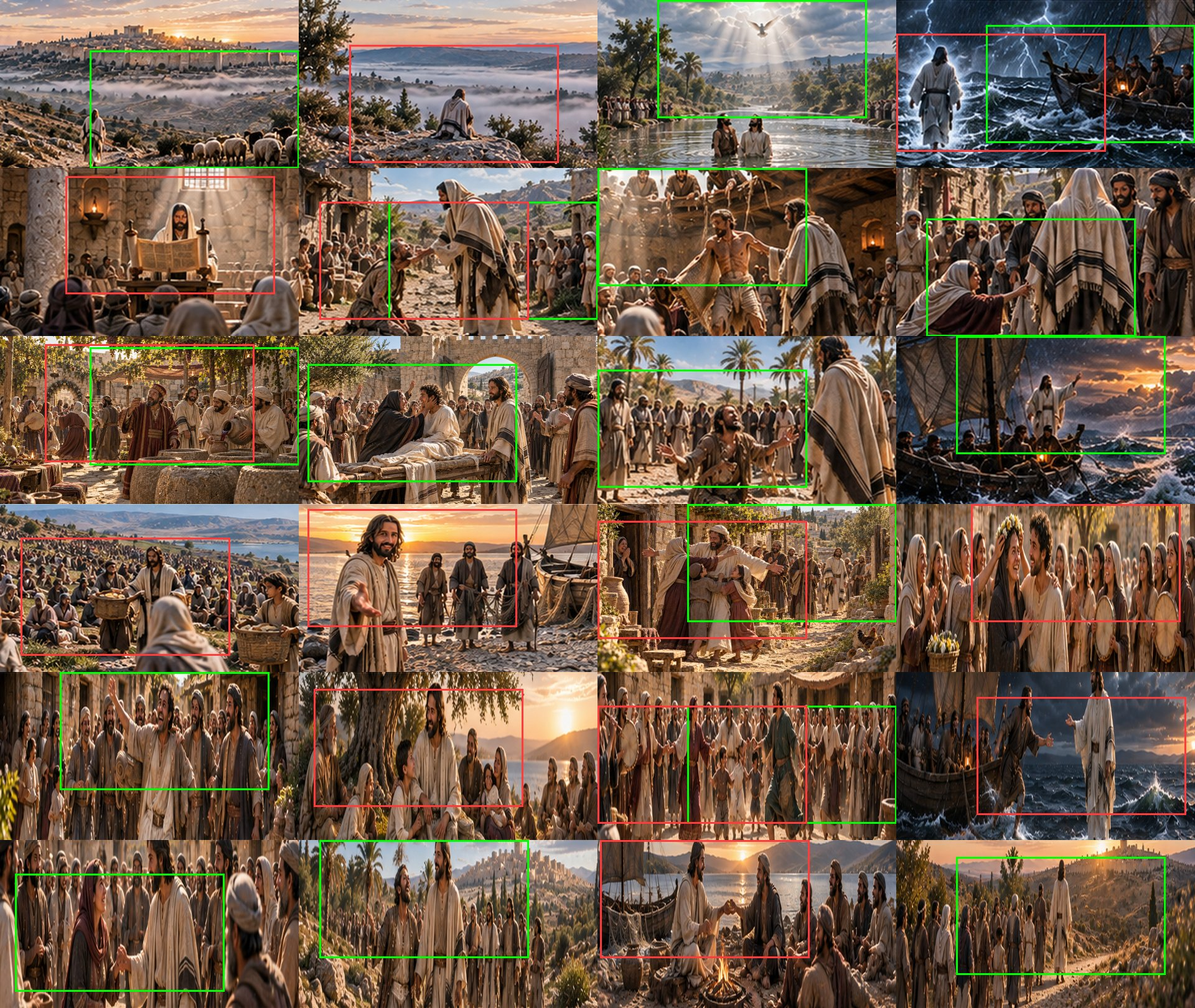
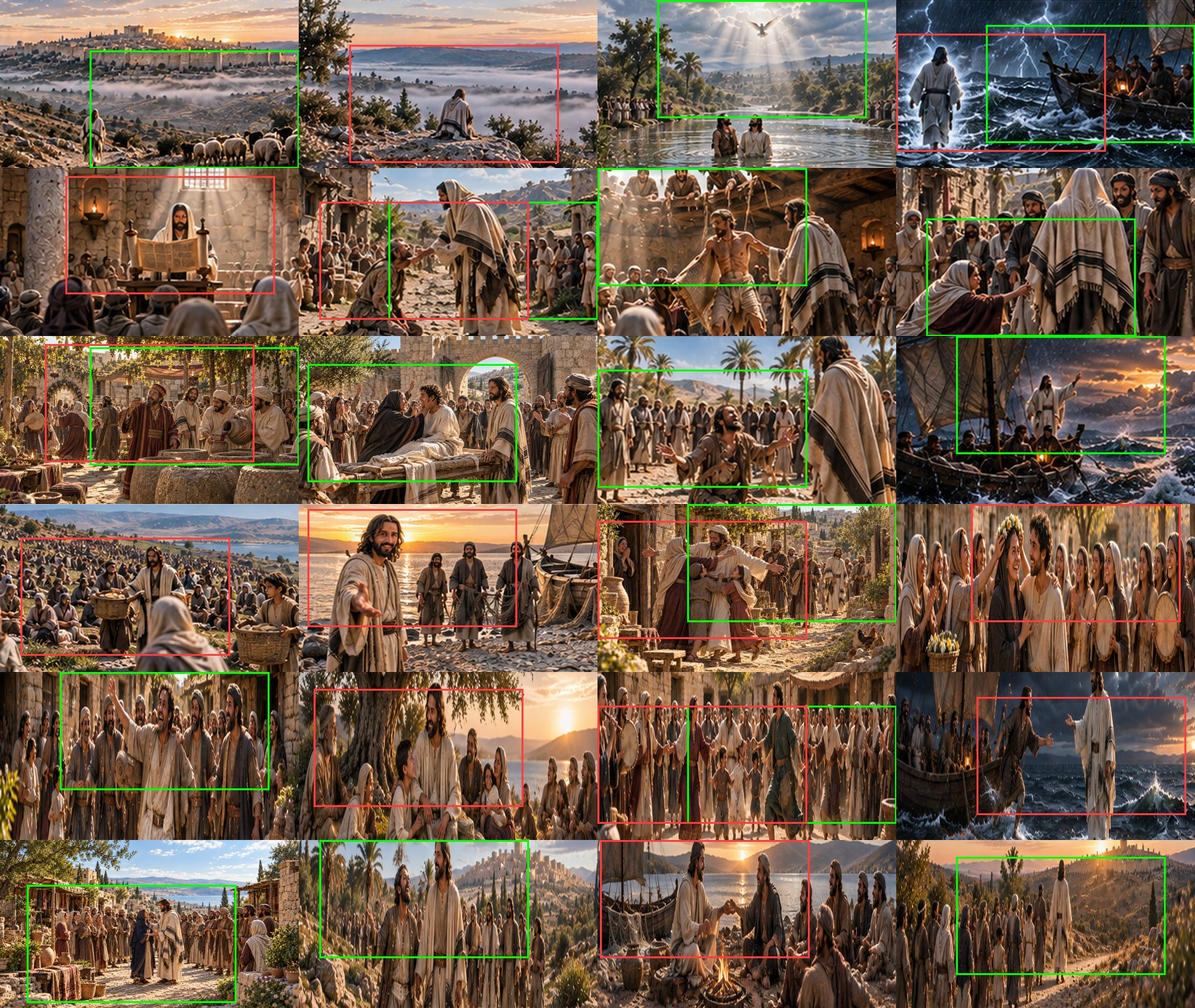
Jesus Savior Redeemer Friend: wider She Stands Tall (navy mantle), new scene 25 Hillside Teaching
Claude-Session: https://claude.ai/code/session_01BF3wGyJKPPbPDp5JMmzx9x

Changed region(s): [[0.0, 0.8333, 0.25, 1.0]]

diff --git a/jesus-savior-redeemer-friend/CAMERA-PLAN.md b/jesus-savior-redeemer-friend/CAMERA-PLAN.md
@@ -19,7 +19,8 @@ Frames: `stills/NN_*.jpg` is the full wide picture. `stills/keys/NN-start.jpg` /
 | 09 New Wine | Pouring gladness over me | Pan right to left from the servants pouring red wine from the stone jars to the steward's amazed smile, with Yeshua smiling behind | keys/09-start → keys/09-end |
 | 10 The Widow's Son | Beauty rises from the ashes / In Your love You set me free | Start close on the mother holding her son's face, pull back to reveal Yeshua at the bier and the rejoicing crowd at the gate | keys/10-start → 10 |
 | 14 Follow Me | Jesus Savior My Redeemer / Precious Guardian precious Friend | From the shore with the fishermen and boat, push in toward Yeshua's reaching hand and face | 14 → keys/14-end |
-| 11 Bartimaeus Sees | You declare this is the season / Of Your mercy of Your light | Start close on Bartimaeus lifting his arms, pull back past Yeshua's shoulder to the crowd | keys/11-start → 11 |
+| 25 Hillside Teaching | You declare this is the season / Of Your mercy of Your light | From the whole flowered hillside over the sea at sunset, push in to Yeshua speaking with open hands | 25 → keys/25-end |
+| 11 Bartimaeus Sees | Binding wounds You heal my pain (second chorus) | Start close on Bartimaeus lifting his arms, pull back past Yeshua's shoulder to the crowd | keys/11-start → 11 |
 | 04 Upon the Waters | By Your Spirit we are rising / In Your strength we soar along | Pan right to left from the frightened men in the boat to Yeshua walking on the waves | keys/04-start → keys/04-end |
 | 12 Peace Be Still | The fearful walk in faith (verse 2 close) | Start on Yeshua with his arm raised, pull back as the storm breaks into golden sunset | keys/12-start → 12 |
 | 15 The Leper Runs Home | Every captive finds redemption / Every prisoner takes flight | Pan right to left from Yeshua watching down the lane to the healed man running into his family's arms | keys/15-start → keys/15-end |
@@ -27,7 +28,7 @@ Frames: `stills/NN_*.jpg` is the full wide picture. `stills/keys/NN-start.jpg` /
 | 17 Carrying the Mat | The broken find their healing | Start on the healed man's raised arm and laughing face, pull back to his dancing friends and the amazed street | keys/17-start → 17 |
 | 18 Rest Under the Olive Tree | The weary find their rest | From the resting villagers by the sunset sea, slow push in to Yeshua and the boy at his side | 18 → keys/18-end |
 | 19 The Village Dance | The mourning find their dancing | Pan right to left with the circle dance, ending on the flute and drum players | keys/19-start → keys/19-end |
-| 21 She Stands Tall | The fallen stand victorious | Start close on their clasped hands and her shining face, pull back to the crowd standing back in wonder | keys/21-start → 21 |
+| 21 She Stands Tall | The fallen stand victorious | Start on Yeshua holding her hands as she stands, pull back to the market street, the crowd and the sea beyond | keys/21-start → 21 |
 | 20 Peter Steps Out | The fearful walk in faith | From the boat and the open sea, push in to Peter on the water reaching for Yeshua's hand | 20 → keys/20-end |
 | 22 Bartimaeus Follows | The prisoners find freedom | Start on Bartimaeus looking up in wonder beside Yeshua, pull back to the whole crowd on the road | keys/22-start → 22 |
 | 23 Breakfast on the Shore | Pouring gladness over me (later chorus) | From the whole circle around the fire, push in to Yeshua handing bread to Peter, sunrise on the water | 23 → keys/23-end |

diff --git a/jesus-savior-redeemer-friend/README.md b/jesus-savior-redeemer-friend/README.md
@@ -21,7 +21,7 @@ The song is Isaiah 61, which Yeshua reads in the synagogue in Luke 4. The video 
 | 11 | Boy with the loaves | 13 |
 | 12 | Wedding steward and servants | 09 |
 
-## stills/ — 24 widescreen scenes (1920×1080), first draft lyric map
+## stills/ — 25 widescreen scenes (1920×1080), first draft lyric map
 
 | Scene | Lyric |
 | --- | --- |
@@ -36,7 +36,8 @@ The song is Isaiah 61, which Yeshua reads in the synagogue in Luke 4. The video 
 | 09 New Wine | Pouring gladness over me |
 | 10 The Widow's Son | Beauty rises from the ashes / In Your love You set me free |
 | 14 Follow Me | Jesus Savior My Redeemer / Precious Guardian precious Friend |
-| 11 Bartimaeus Sees | You declare this is the season / Of Your mercy of Your light |
+| 25 Hillside Teaching | You declare this is the season / Of Your mercy of Your light |
+| 11 Bartimaeus Sees | Binding wounds You heal my pain (second chorus) |
 | 04 Upon the Waters | By Your Spirit we are rising / In Your strength we soar along |
 | 12 Peace Be Still | The fearful walk in faith |
 | 15 The Leper Runs Home | Every captive finds redemption / Every prisoner takes flight |
